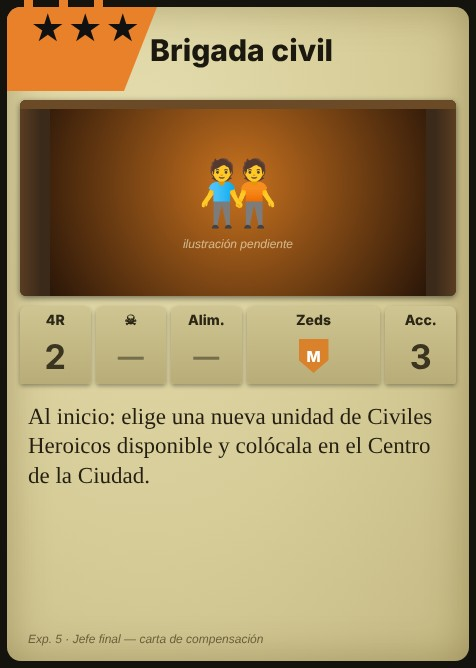
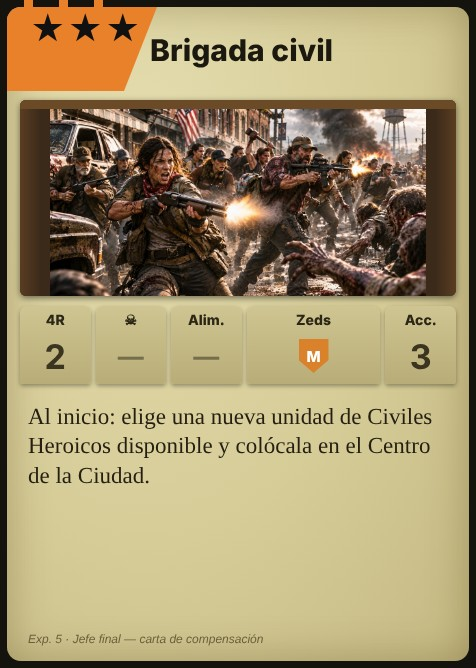
Exp. 5: ilustración de «Brigada civil»; BUILD_TIME, CHANGELOG y caché v80
Claude-Session: https://claude.ai/code/session_01KmRiLbWWzhUthpc2eQKnLk

Changed region(s): [[0.0882, 0.1497, 0.9118, 0.4491]]

diff --git a/sw.js b/sw.js
@@ -1,7 +1,7 @@
 /* Service worker: permite instalar la web como app y jugar sin conexión.
    Código (html/js/css): red primero, con copia local de reserva. Imágenes y audio: caché primero. */
 'use strict';
-const CACHE = 'doz3-v79';
+const CACHE = 'doz3-v80';
 const SHELL = ['./', 'index.html', 'style.css', 'manifest.webmanifest', 'icons/icon-192.png', 'icons/icon-512.png', 'assets/portada.jpg', 'assets/fondo_nueva.webp', 'assets/fondo_ranking.webp',
   'js/version.js', 'js/data.js', 'js/events.js', 'js/dest.js', 'js/evlog.js', 'js/preview.js', 'js/obituario.js', 'js/engine.js', 'js/game.js', 'js/phases.js', 'js/actions.js', 'js/cardtext.js', 'js/ui.js', 'js/anim.js',
   'js/expansions.js', 'js/expansions2.js', 'js/jefe.js', 'js/sfx.js', 'js/sound.js', 'js/opciones.js', 'js/voz.js', 'js/ost.js', 'assets/sonidos/letras/letras.js', 'assets/sonidos/efectos/sfx_disparo.mp3', 'assets/sonidos/efectos/sfx_disparo_largo.mp3', 'js/mapzoom.js', 'js/movil.js', 'js/seedcode.js', 'js/save.js', 'js/main.js', 'js/bot.js'];

diff --git a/js/version.js b/js/version.js
@@ -1,2 +1,2 @@
 /* Fecha y hora de la última build (hora de Madrid). Se actualiza con cada cambio publicado. */
-const BUILD_TIME = '2026-11-10 14:18';
+const BUILD_TIME = '2026-11-10 14:20';

diff --git a/CHANGELOG.md b/CHANGELOG.md
@@ -2,6 +2,11 @@
 
 Registro de cambios por publicación (push a `main`). Lo más reciente, arriba. Cada entrada lleva la misma fecha y hora que `BUILD_TIME` de `js/version.js`.
 
+## 2026-11-10 14:20
+
+### Cambios
+- **Exp. 5, «Brigada civil»:** ya lleva su ilustración definitiva (civiles armados cargando por la calle). Caché v80.
+
 ## 2026-11-10 14:18
 
 ### Cambios
